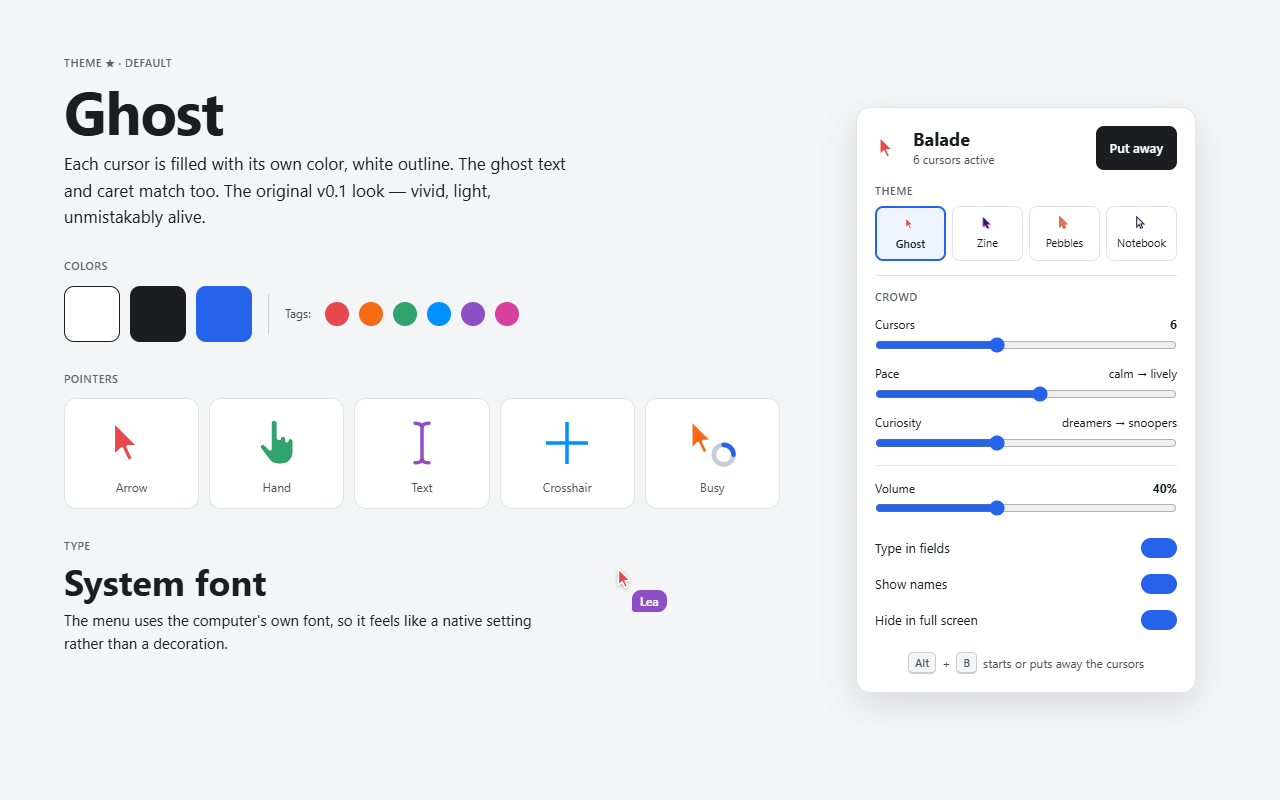
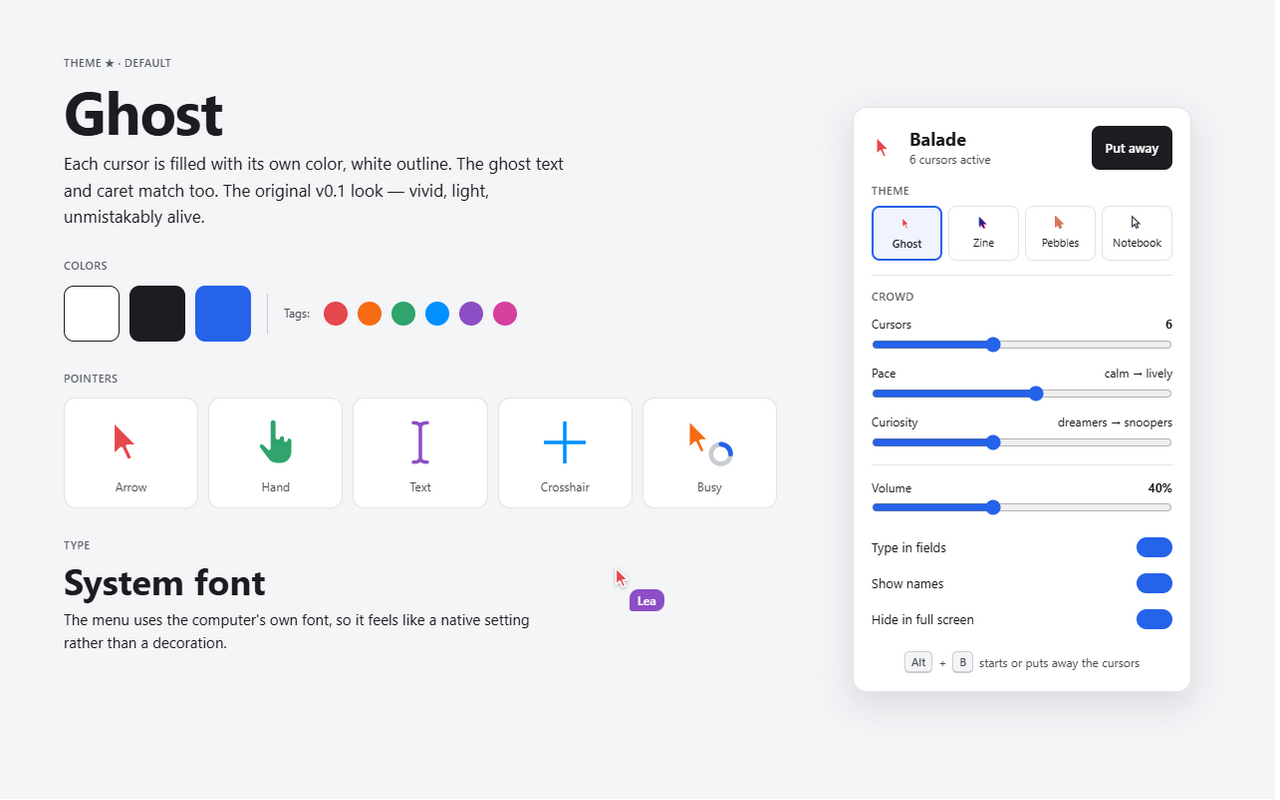
Refactor code structure for improved readability and maintainability

Changed region(s): [[0.0938, 0.25, 0.125, 0.2812]]

diff --git a/README.md b/README.md
@@ -2,6 +2,8 @@
 
 *Français : [README.fr.md](README.fr.md)*
 
+![Balade — Ghost theme](docs/images/promo-ghost-2x.gif)
+
 Cursors that stroll around any web page, like a team of colleagues working alongside you.
 Plain JavaScript, object-oriented, no bundler, no dependencies.
 
